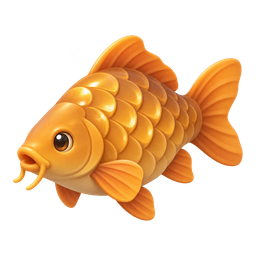
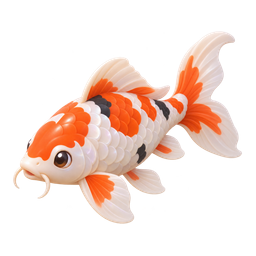
잉어 → 비단잉어(하양 바탕에 주황 · 검정 무늬), 장어 → 뱀장어(찌릿찌릿 번개), 오징어 그림 다시(비스듬한 옆모습, 다리 10개: 짧은 다리 8 + 긴 촉완 2)

diff --git a/scripts/art-prompts.ts b/scripts/art-prompts.ts
@@ -75,11 +75,11 @@ export const ART_PROMPTS: Record<string, string> = {
   [ASSETS.crops.crucian]: 'one round chubby golden-olive crucian carp fish (#b8a36a) with a tall back and soft fins, side view, head pointing left',
   [ASSETS.crops.catfish]: 'one smooth dark gray-brown catfish (#6f6a5e) with a wide flat head and long whiskers, side view, head pointing left',
   [ASSETS.crops.trout]: 'one rainbow trout fish with a silver body, a soft pink-red stripe along its side (#e59a9a) and small dark spots, side view, head pointing left',
-  [ASSETS.crops.carp]: 'one big plump golden-bronze carp fish (#d9a14a) with large shiny scales and two short whiskers, side view, head pointing left',
+  [ASSETS.crops.carp]: 'one big plump Japanese nishikigoi koi carp fish with a glossy pearly white body covered in bold bright orange-red patches (#e8743b) and a few small black patches, large shiny scales, long flowing graceful fins and tail, two short whiskers, side view, head pointing left',
   [ASSETS.crops.goldfish]: 'one bright orange goldfish (#f08a3c) with a round body and a long flowing double tail fin, side view, head pointing left',
   [ASSETS.crops.mackerel]: 'one sleek mackerel fish with a shiny blue-green back with dark wavy stripes (#5f8fae) and a bright silver belly, a forked tail, side view, head pointing left',
-  [ASSETS.crops.squid]: 'one cute pale pink-cream squid (#f0c9b8) with a pointed triangular head fin, big round eyes, front view standing upright with the pointed head fin on top, perfectly left-right symmetrical. Below the face hang EXACTLY TEN arms in total: eight short arms in a neat row (four on the left half, four on the right half) plus two long thin tentacles with small paddle tips on the far left and far right. All ten are separated by clear gaps, none overlap or hide behind another, so a child can count exactly 10',
-  [ASSETS.crops.eel]: 'one long smooth wavy dark olive eel (#5f6b4e) with a pale yellow belly and a small friendly face, curved in a gentle S shape, side view, head pointing left',
+  [ASSETS.crops.squid]: 'one cute pale pink-cream squid (#f0c9b8) seen from the side at a slight diagonal, head pointing up-right: a slender tall torpedo-shaped mantle (much longer than wide) with two small triangular fins at its pointed tip, big round friendly eyes near the bottom of the mantle. From under the eyes the arms flow down-left, spread out like an open fan with a clear gap between every arm: EXACTLY TEN in total, eight shorter tapered arms and two clearly longer thin tentacles ending in small diamond-shaped club tips. No arm overlaps or hides behind another, so a child can count exactly 10',
+  [ASSETS.crops.eel]: 'one long smooth wavy eel with a dark blue-teal body (#3f6f8a) and a pale yellow belly, a cheeky wide-eyed grinning face, curved in a lively S shape, with a few small bright yellow cartoon lightning-bolt sparks and tiny electric zigzags crackling around its body as if it gives a tingly electric zap, side view, head pointing left',
   [ASSETS.crops.octopus]: 'one cute round reddish-orange octopus (#d9775f) with a big soft head, friendly eyes and EXACTLY EIGHT curly tentacles with small pale suction cups, front view, perfectly left-right symmetrical: EXACTLY FOUR tentacles on the left half and EXACTLY FOUR on the right half, eight in total, fanned out evenly around the lower body with clear gaps between them, none overlap or hide behind another, so a child can count exactly 8',
   [ASSETS.crops.treasureMap]: 'one old rolled-open parchment treasure map (#d9b77a) with slightly torn edges, a dotted path and a big red X mark, tied with a small brown string, a few water drops on it',
   [ASSETS.crops.bottle]: 'one small clear sea-green glass bottle (#9fd3c7) with a cork, a rolled paper letter tied with a red string inside it',

diff --git a/src/config/fishing.ts b/src/config/fishing.ts
@@ -47,13 +47,13 @@ export const FISH: Record<FishId, FishDef> = {
   minnow: fish({ id: 'minnow', name: '송사리', price: 3, weight: 13, size: 'small', speed: 1, zone: 0.28, color: '#b9c9d6' }),
   loach: fish({ id: 'loach', name: '미꾸라지', price: 4, weight: 12.5, size: 'small', speed: 1, zone: 0.27, color: '#a08a5c' }),
   crucian: fish({ id: 'crucian', name: '붕어', price: 7, weight: 11, size: 'medium', speed: 1.1, zone: 0.26, color: '#b8a36a' }),
-  // 고등어 · 오징어 · 장어 · 문어는 바다 낚시에서도 잡힌다 (나중에 바다 낚시터를 만들면 같이 쓴다)
+  // 고등어 · 오징어 · 뱀장어 · 문어는 바다 낚시에서도 잡힌다 (나중에 바다 낚시터를 만들면 같이 쓴다)
   mackerel: fish({ id: 'mackerel', name: '고등어', price: 9, weight: 10, size: 'medium', speed: 1.1, zone: 0.25, color: '#5f8fae' }),
   squid: fish({ id: 'squid', name: '오징어', price: 11, weight: 7.5, size: 'medium', speed: 1.2, zone: 0.24, color: '#f0c9b8' }),
   catfish: fish({ id: 'catfish', name: '메기', price: 13, weight: 6.5, size: 'medium', speed: 1.2, zone: 0.23, color: '#6f6a5e' }),
   trout: fish({ id: 'trout', name: '무지개송어', price: 16, weight: 6, size: 'big', speed: 1.3, zone: 0.22, color: '#e59a9a' }),
-  carp: fish({ id: 'carp', name: '잉어', price: 18, weight: 5.5, size: 'big', speed: 1.3, zone: 0.21, color: '#d9a14a' }),
-  eel: fish({ id: 'eel', name: '장어', price: 22, weight: 5, size: 'big', speed: 1.4, zone: 0.2, color: '#5f6b4e' }),
+  carp: fish({ id: 'carp', name: '비단잉어', price: 18, weight: 5.5, size: 'big', speed: 1.3, zone: 0.21, color: '#e8743b' }),
+  eel: fish({ id: 'eel', name: '뱀장어', price: 22, weight: 5, size: 'big', speed: 1.4, zone: 0.2, color: '#3f6f8a' }),
   octopus: fish({ id: 'octopus', name: '문어', price: 26, weight: 4.5, size: 'big', speed: 1.4, zone: 0.19, color: '#d9775f' }),
   goldfish: fish({ id: 'goldfish', name: '금붕어', price: 35, weight: 3.5, size: 'small', speed: 1.5, zone: 0.18, color: '#f08a3c' }),
   salmon: fish({ id: 'salmon', name: '전설의 연어', price: 120, weight: 2.5, size: 'legend', speed: 1.5, zone: 0.17, color: '#f2785a' }),
